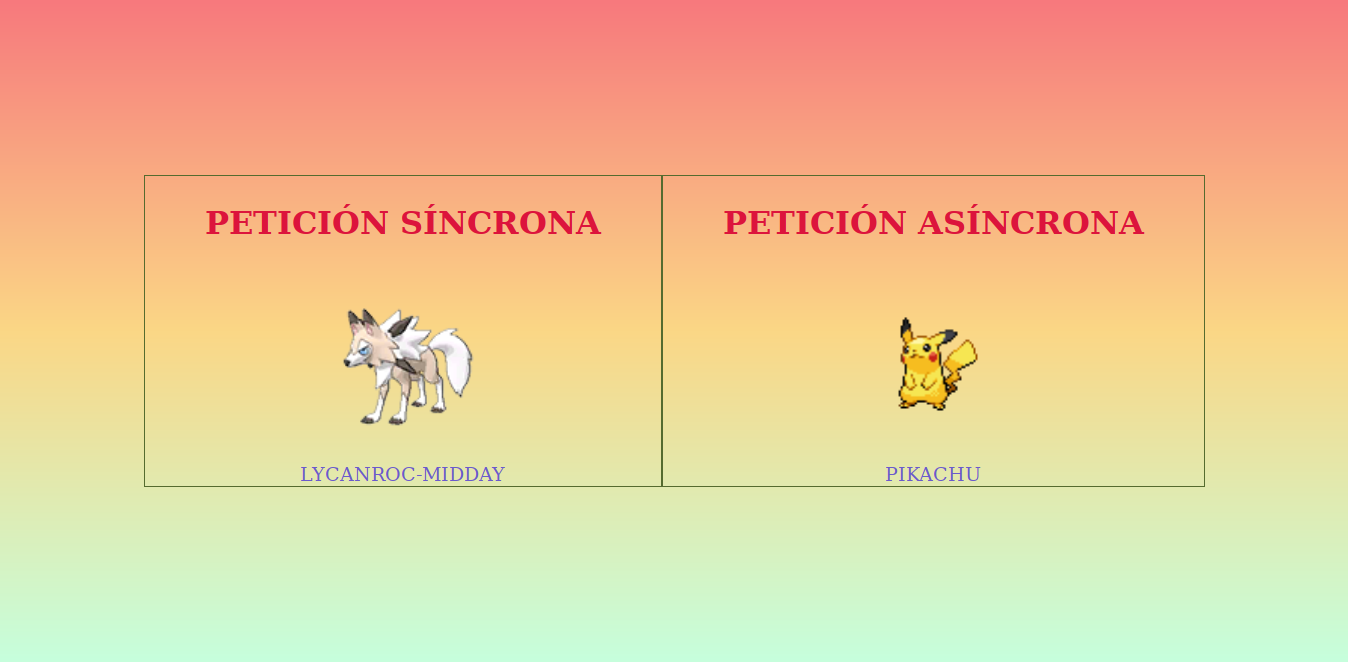
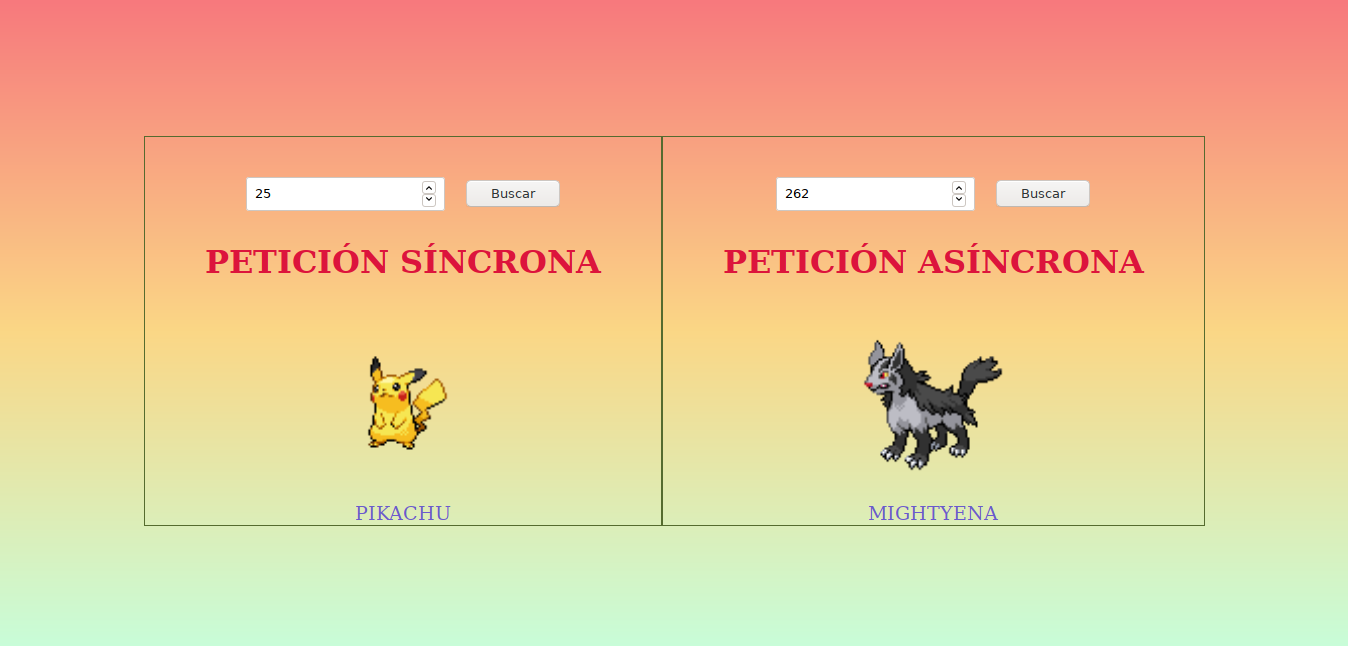
📦 FEATURE: ADD Buscador pokemon

diff --git a/assets/js/index.js b/assets/js/index.js
@@ -14,8 +14,12 @@ function renderPokemon(pokemon, Asynchronous = false) {
   }
 }
 
-function renderError(status) {
-  nameA.textContent = `${status} Pokemon no encontrado`;
+function renderError(status, async = true) {
+  if (async) {
+    nameA.textContent = `${status} Pokemon no encontrado`;
+  } else {
+    name.textContent = `${status} Pokemon no encontrado`;
+  }
 }
 
 /*----------------------------------------------------------------------------/*
@@ -28,11 +32,30 @@ function requestSync({ method, url, flagSynchronous }) {
   request.open(method, url, flagSynchronous);
   // podemos enviarle un body si hicieramos un POST
   request.send(null);
-  return request.responseText;
+  if (request.status === 200) {
+    return request.responseText;
+  } else {
+    renderError(request.status, false);
+  }
 }
+
+document.getElementById("btn-find").addEventListener("click", getPokemonSync);
+function getPokemonSync(event) {
+  event.preventDefault();
+  const pokeId = document.getElementById("pokemon-id").value;
+  if (pokeId > 0) {
+    const pokemonSynchronous = requestSync({
+      method: "GET",
+      url: `${BASE_URL}pokemon/${pokeId}`,
+      flagSynchronous: false /* Para que el llamado sea sincrono */,
+    });
+    renderPokemon(JSON.parse(pokemonSynchronous)); //sincrono
+  }
+}
+
 const pokemonSynchronous = requestSync({
   method: "GET",
-  url: `${BASE_URL}pokemon/745`,
+  url: `${BASE_URL}pokemon/24`,
   flagSynchronous: false /* Para que el llamado sea sincrono */,
 });
 renderPokemon(JSON.parse(pokemonSynchronous)); //sincrono
@@ -46,11 +69,11 @@ function status(readyState) {
     case 0:
       return "Aun no se a inicializado el request";
     case 1:
-      return "Petición cargando";
+      return "Petición cargando conectado con el servidor";
     case 2:
       return "Petición recibida";
     case 3:
-      return "Petición interactica ya se puede hacer algo: interactive";
+      return "Procesando peticion: interactive";
     case 4:
       return "Completada ya se descargo y podemos renderizarla";
   }
@@ -72,9 +95,25 @@ function requestAsync({ method, url, flagSynchronous, done, error }) {
   request.open(method, url, flagSynchronous);
   request.send(null);
 }
+
+document.getElementById("btn-findA").addEventListener("click", getPokemonAsync);
+function getPokemonAsync(event) {
+  event.preventDefault();
+  const pokeId = document.getElementById("pokemonA-id").value;
+  if (pokeId > 0) {
+    requestAsync({
+      method: "GET",
+      url: `${BASE_URL}pokemon/${pokeId}`,
+      flagSynchronous: true /* Para que el llamado sea Asincrono */,
+      done: renderPokemon,
+      error: renderError,
+    });
+  }
+}
+
 requestAsync({
   method: "GET",
-  url: `${BASE_URL}pokemon/25`,
+  url: `${BASE_URL}pokemon/26`,
   flagSynchronous: true /* Para que el llamado sea Asincrono */,
   done: renderPokemon,
   error: renderError,

diff --git a/index.html b/index.html
@@ -8,11 +8,19 @@
   </head>
   <body>
     <div>
+      <form>
+        <input id="pokemon-id" type="number" />
+        <button id="btn-find">Buscar</button>
+      </form>
       <h2>Petición síncrona</h2>
       <img src="" alt="" id="image" />
       <p id="name"></p>
     </div>
     <div>
+      <form>
+        <input id="pokemonA-id" type="number" />
+        <button id="btn-findA">Buscar</button>
+      </form>
       <h2>Petición Asíncrona</h2>
       <img src="" alt="" id="imageA" />
       <p id="nameA"></p>
